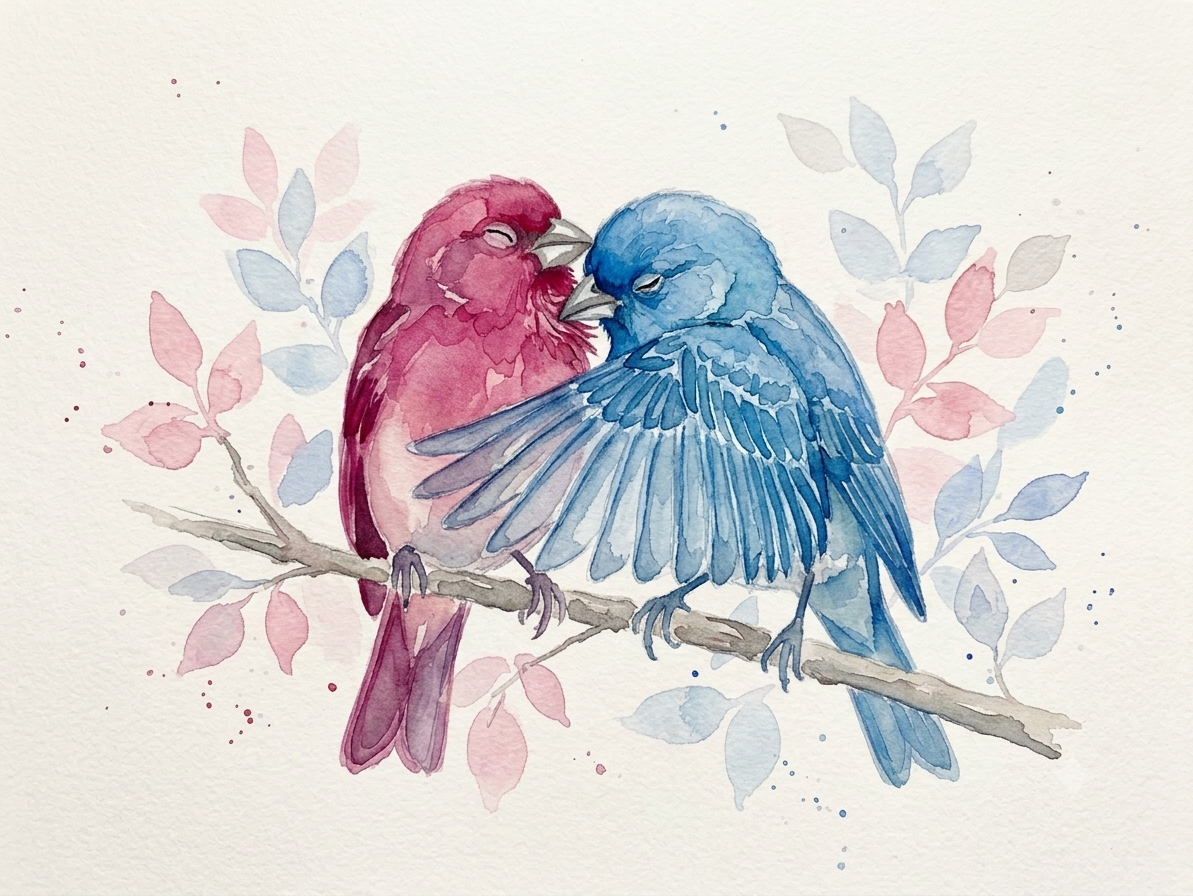
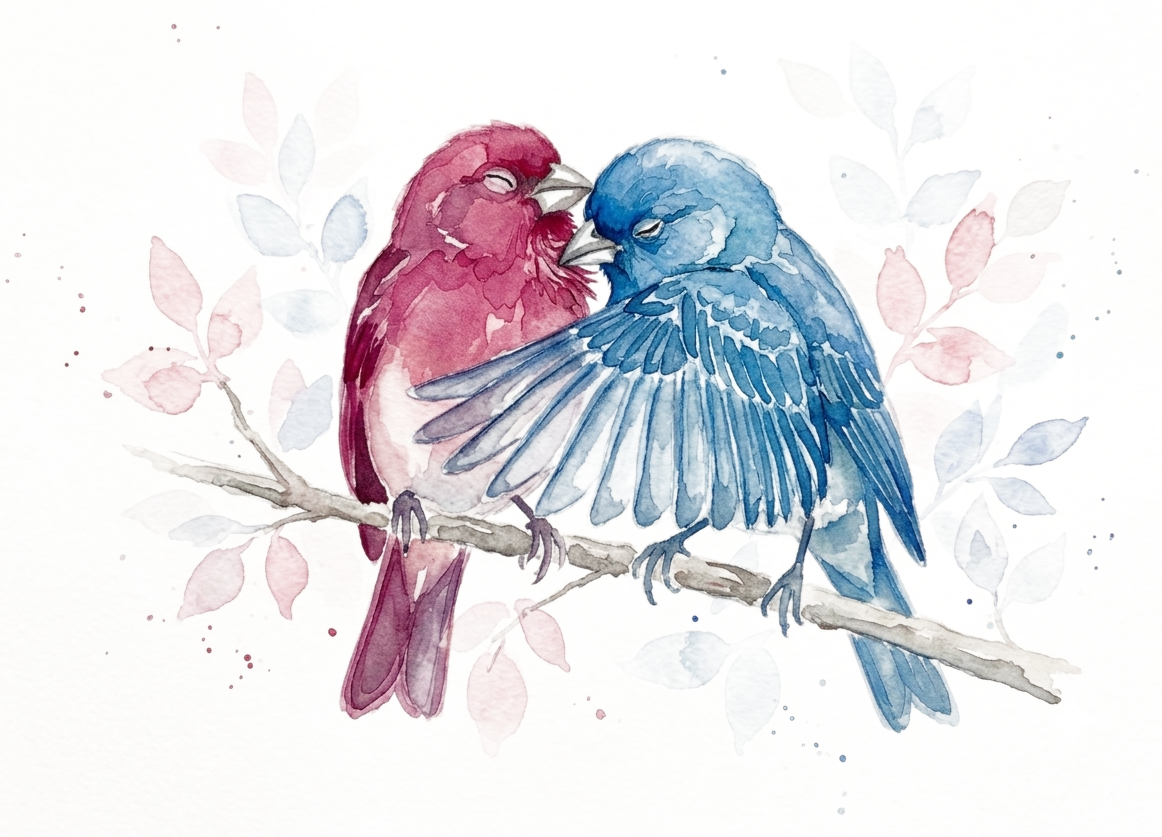
Aquarela dos passarinhos com fundo transparente, integrada ao fundo do site

diff --git a/css/styles.css b/css/styles.css
@@ -233,9 +233,7 @@ h2 { font-size: clamp(2rem, 4.5vw, 3rem); margin-bottom: 1.2rem; }
 .historia__bird img {
   width: 100%;
   height: auto;
-  mix-blend-mode: multiply; /* funde o branco do papel da aquarela com o fundo */
-  -webkit-mask-image: radial-gradient(ellipse 70% 68% at 50% 50%, #000 55%, transparent 98%);
-  mask-image: radial-gradient(ellipse 70% 68% at 50% 50%, #000 55%, transparent 98%);
+  mix-blend-mode: multiply; /* resquícios do papel somem sobre o fundo do site */
 }
 
 /* ============ FOTOS PLACEHOLDER ============ */
